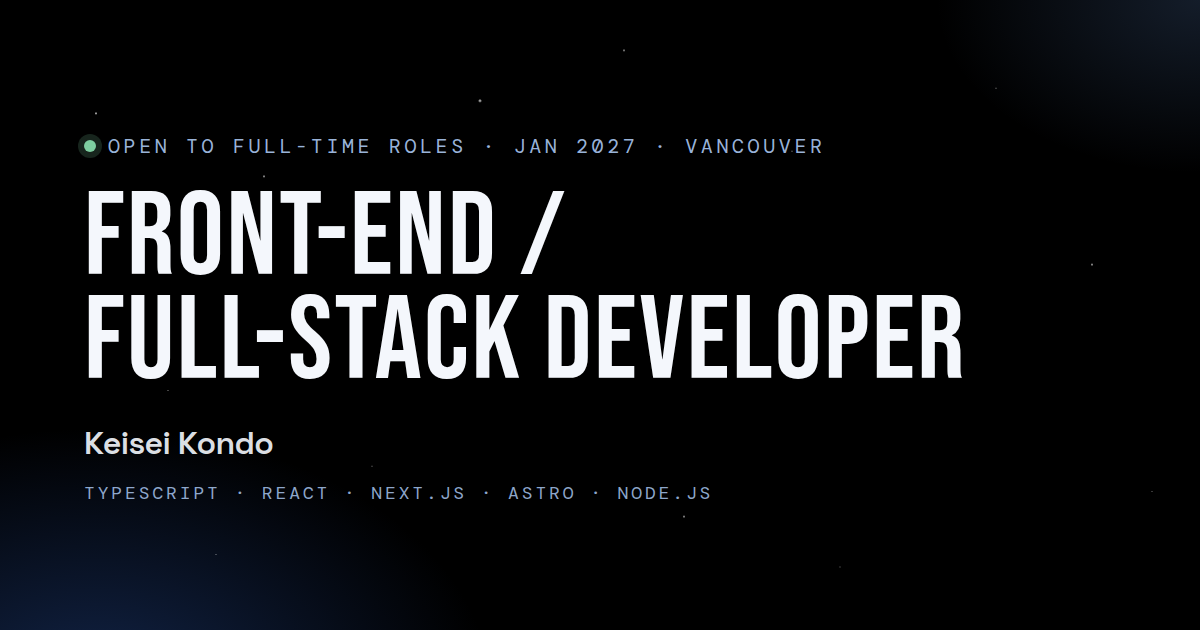
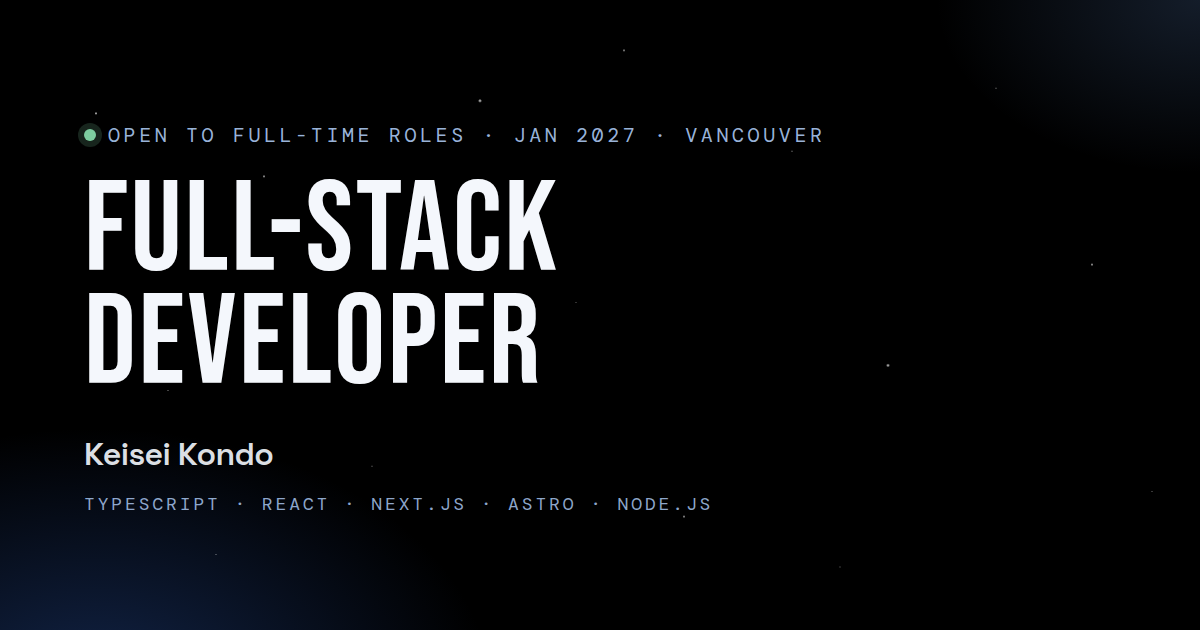
Use Full-Stack Developer as the only title.
The star-particle hero, document title, social cards, nav, and about line all use that role, and the Open Graph image is regenerated to match.

diff --git a/src/ui/hero.ts b/src/ui/hero.ts
@@ -35,10 +35,10 @@ function centerStars(stars: Star[], width: number, height: number) {
   }
 }
 
-/** Title lines. Narrow screens stack three short rows so the lead still fits. */
+/** One line on desktop. Two short rows on narrow screens so the lead still fits. */
 function titleLines(width: number): string[] {
-  if (width < 720) return ['FRONT-END', 'FULL-STACK', 'DEVELOPER'];
-  return ['FRONT-END / FULL-STACK', 'DEVELOPER'];
+  if (width < 720) return ['FULL-STACK', 'DEVELOPER'];
+  return ['FULL-STACK DEVELOPER'];
 }
 
 /**
@@ -56,14 +56,17 @@ function buildStars(width: number, height: number, dpr: number, compact = false)
 
   const lines = titleLines(width);
   const narrow = width < 720;
+  const single = lines.length === 1;
   // Keep side padding so F/R stems + glow aren't clipped at canvas edges
-  const padX = sw * (narrow ? 0.07 : 0.05);
-  const padY = sh * (narrow ? 0.07 : 0.08);
+  const padX = sw * (narrow ? 0.08 : 0.055);
+  const padY = sh * (single ? 0.1 : 0.1);
   const maxTextW = sw - padX * 2;
   const maxTextH = sh - padY * 2;
-  const lineGap = narrow ? 1.02 : 1.05;
+  const lineGap = single ? 1 : 1.06;
 
-  let fontPx = Math.min(sw * (compact ? 0.32 : 0.2), sh * (compact ? 0.46 : 0.46));
+  let fontPx = single
+    ? Math.min(sw * 0.3, sh * 0.86)
+    : Math.min(sw * (compact ? 0.36 : 0.24), sh * (compact ? 0.5 : 0.48));
 
   const applyFont = (size: number) => {
     ctx.font = `${size}px "Bebas Neue", "Arial Narrow", sans-serif`;

diff --git a/src/styles/partials/hero.css b/src/styles/partials/hero.css
@@ -53,7 +53,7 @@
   width: 100%;
   max-width: min(1680px, 100%);
   margin-inline: auto;
-  height: clamp(200px, 26vw, 320px);
+  height: clamp(200px, 28vw, 340px);
   pointer-events: auto;
   touch-action: none;
   cursor: none;
@@ -321,7 +321,7 @@
     gap: 0;
   }
   .hero-star-title {
-    height: clamp(168px, 48vw, 196px);
+    height: clamp(148px, 42vw, 172px);
   }
   .hero-eyebrow {
     flex-wrap: wrap;

diff --git a/src/components/SiteNav.tsx b/src/components/SiteNav.tsx
@@ -89,7 +89,7 @@ export default function SiteNav() {
             ))}
           </ul>
           <footer className="site-nav__foot">
-            <span className="site-nav__role">Front-End / Full-Stack</span>
+            <span className="site-nav__role">Full-Stack Developer</span>
             <span className="site-nav__links">
               <a
                 className="site-nav__mail"

diff --git a/README.md b/README.md
@@ -1,8 +1,8 @@
 # Keisei Kondo — Portfolio
 
-Space-themed portfolio for a **Front-End / Full-Stack Developer**, built with **Astro**, **React**, **TypeScript**, and **Three.js**.
+Space-themed portfolio for a **Full-Stack Developer**, built with **Astro**, **React**, **TypeScript**, and **Three.js**.
 
-A black starfield runs behind the page. The hero title (“Front-End / Full-Stack Developer”) is drawn as twinkling star particles that scatter when you hover. Sections use scroll-driven motion with a glossy navy UI.
+A black starfield runs behind the page. The hero title (“Full-Stack Developer”) is drawn as twinkling star particles that scatter when you hover. Sections use scroll-driven motion with a glossy navy UI.
 
 **Positioning:** Vancouver · open to full-time roles from January 2027 · Japanese (native) / English
 
@@ -92,7 +92,7 @@ keisei-portfolio/
 
 ## Sections
 
-1. **Hero** — Front-End / Full-Stack Developer (star text), short pitch, contact / work / resume · open from Jan 2027 · Vancouver  
+1. **Hero** — Full-Stack Developer (star text), short pitch, contact / work / resume · open from Jan 2027 · Vancouver  
 2. **About** — CICCC web development student; full-stack TypeScript  
 3. **Skills** — languages, frontend, backend, database, tools, and spoken languages from the resume  
 4. **Work** — Trim Team Booking App, Unsplash Landing Page Recreation, Player Performance Explorer, Real-Time Chat App, plus this site  
